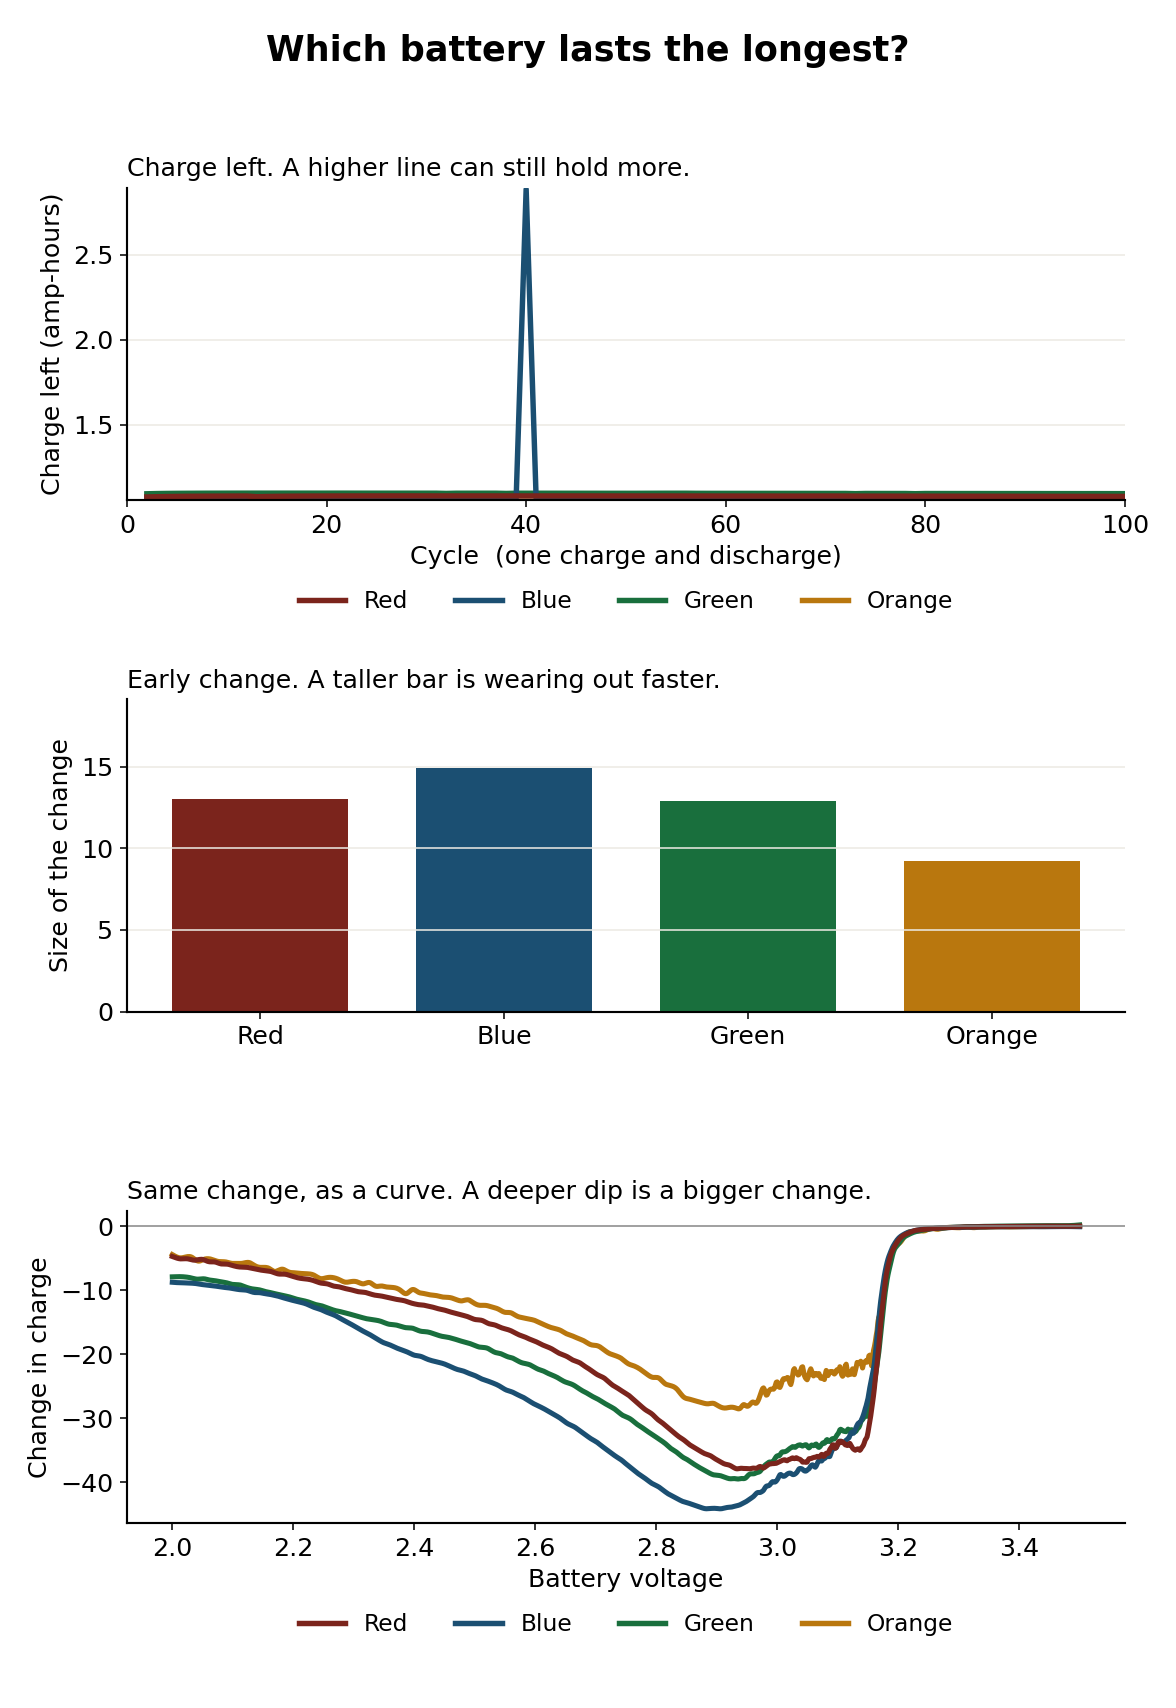
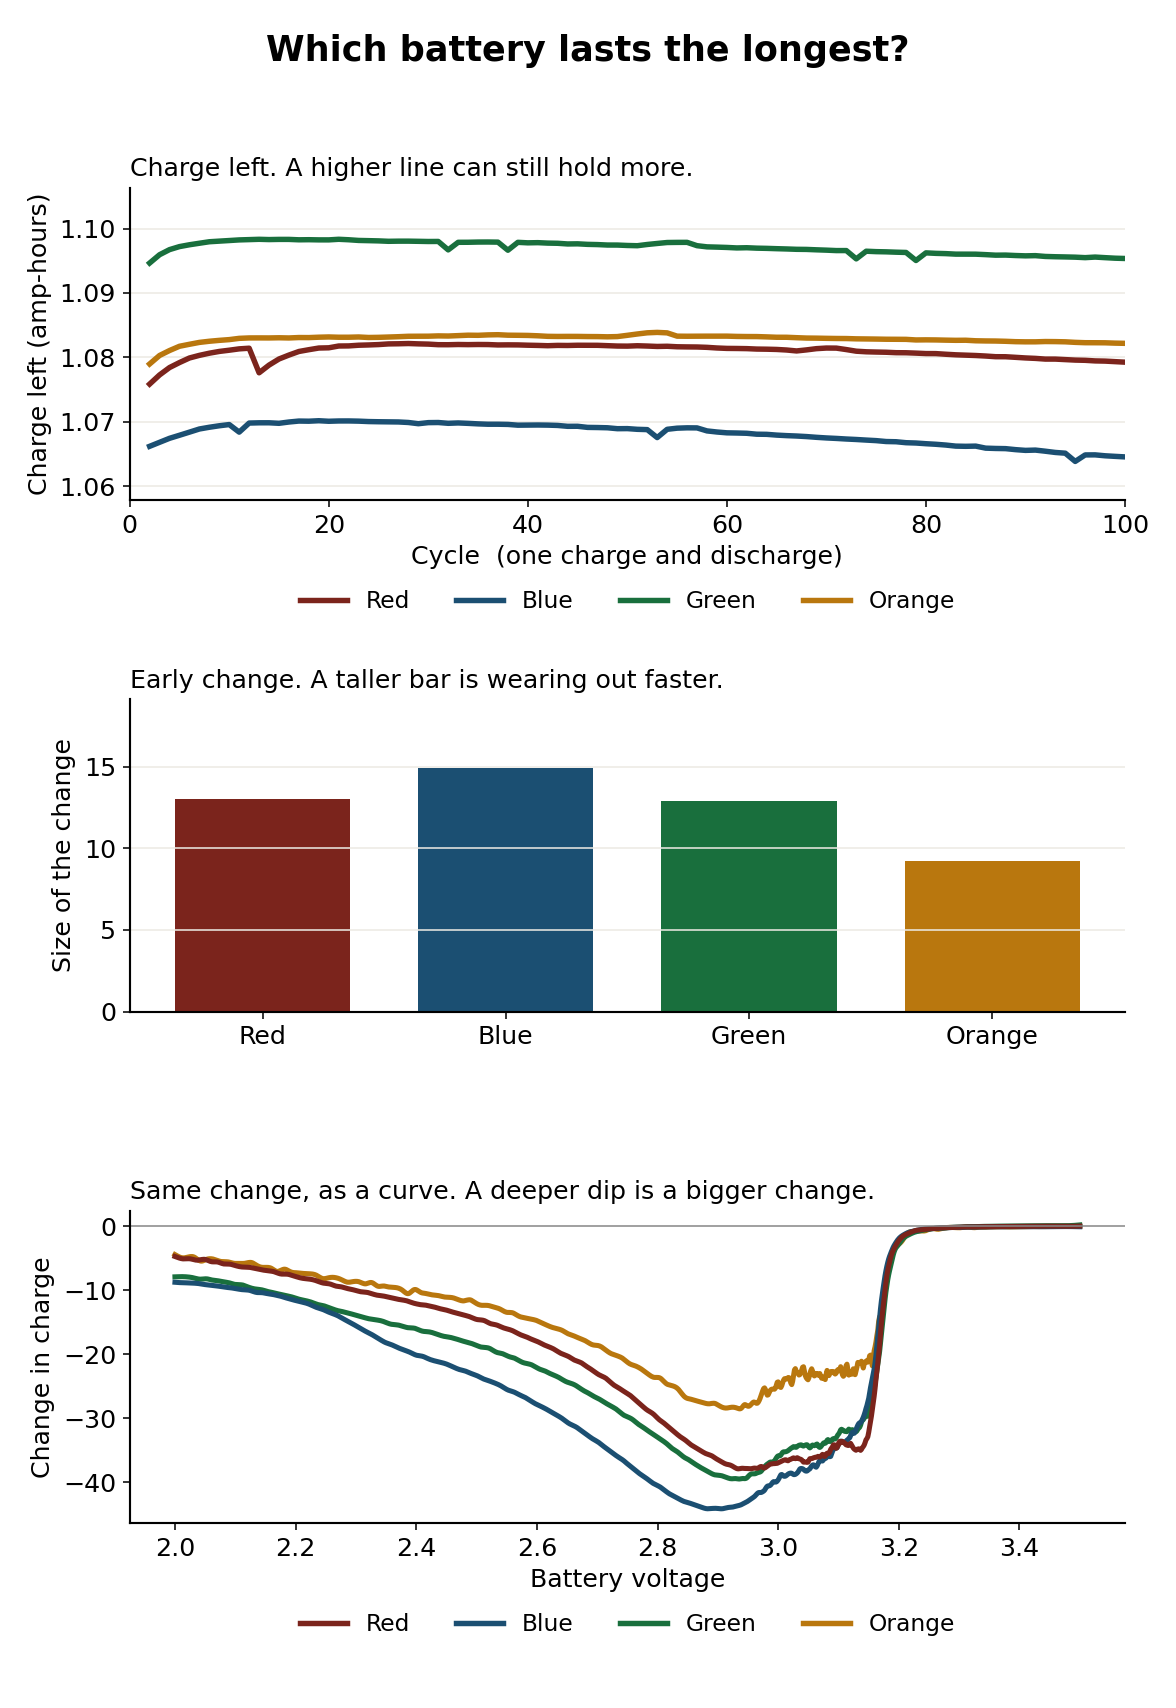
Fix the chart whose scale was flattened by one bad point.

diff --git a/index.html b/index.html
@@ -139,7 +139,7 @@ function showTrial() {
   function unlock() { shownAt = Date.now(); locked = false; }
   chart.onload = unlock;
   chart.alt = item.ask;
-  chart.src = "trials/" + item.id + ".png?v=2";
+  chart.src = "trials/" + item.id + ".png?v=3";
   if (chart.complete && chart.naturalWidth) unlock();
   window.scrollTo(0, 0);
   shuffle(COLORS).forEach(function (color) {
@@ -194,7 +194,7 @@ function finish() {
         var why = document.createElement("p");
         why.textContent = row.why;
         var img = document.createElement("img");
-        img.src = "trials/" + row.id + ".png?v=2";
+        img.src = "trials/" + row.id + ".png?v=3";
         img.alt = row.ask;
         card.appendChild(title);
         card.appendChild(why);
@@ -221,4 +221,3 @@ document.getElementById("under").onclick = function () {
 </script>
 </body>
 </html>
-
